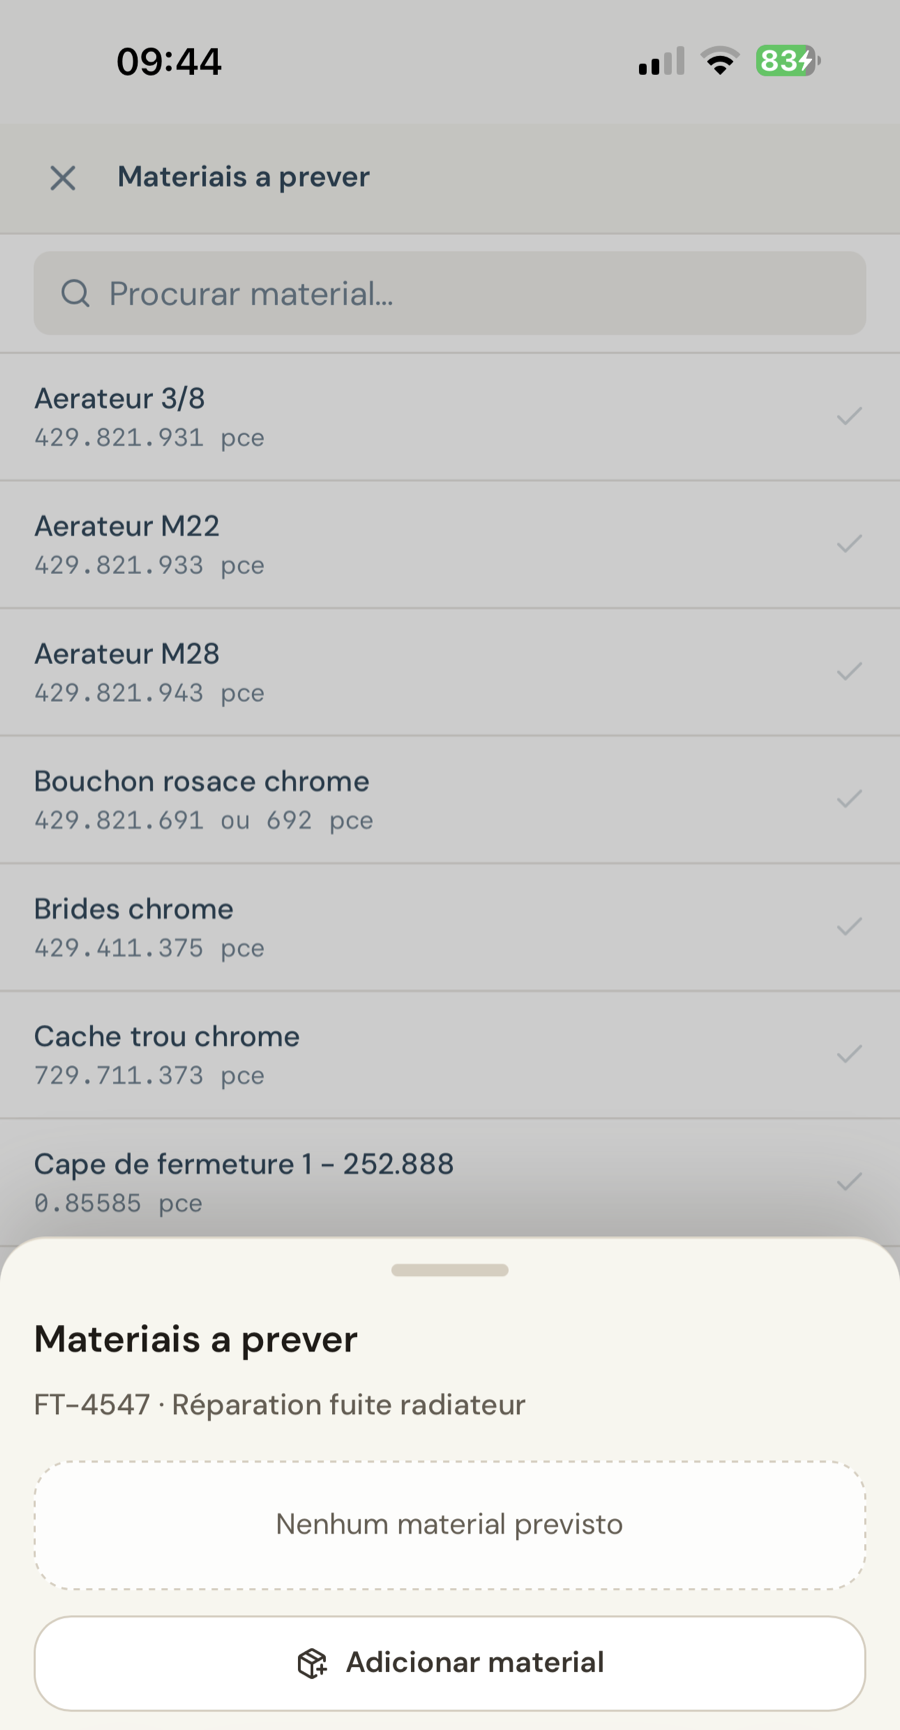
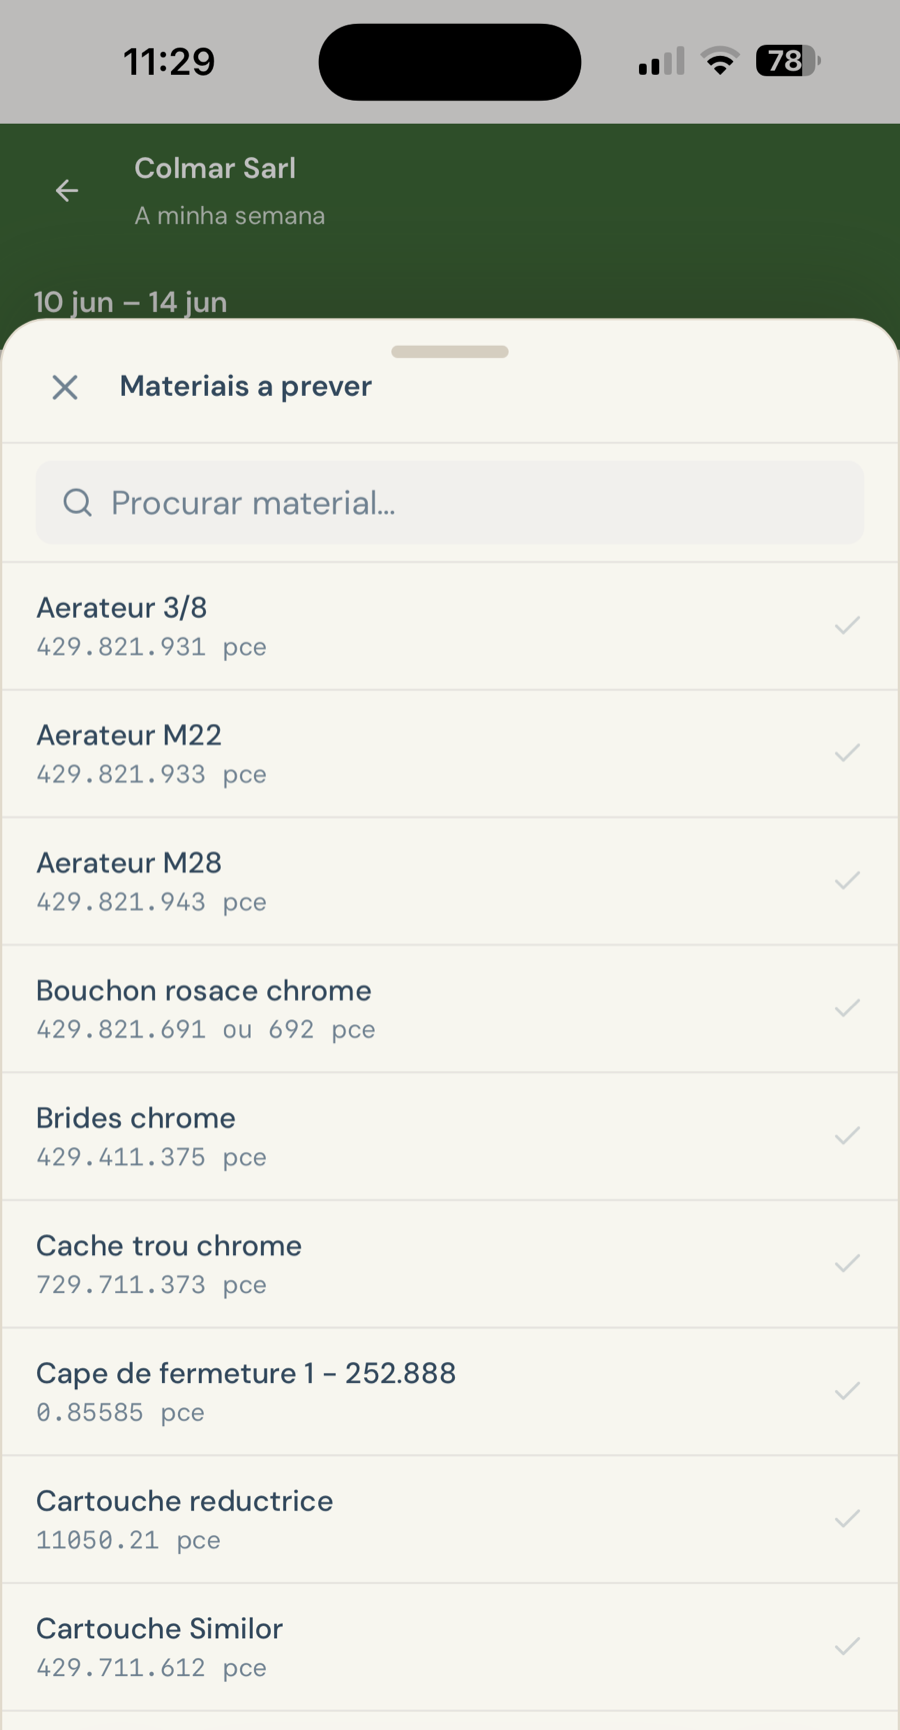
Update material screenshot in June release notes

diff --git a/support/notes-de-version/1-juin-2026/index.html b/support/notes-de-version/1-juin-2026/index.html
@@ -475,7 +475,7 @@
             <figure class="screenshot is-phone">
               <div class="screenshot-frame">
                 <img
-                  src="/release-notes-screenshots-2026-06-01/app-technicien-materiel.png"
+                  src="/release-notes-screenshots-2026-06-01/app-technicien-materiel.png?v=20260601-2"
                   alt="Application technicien BonGest avec le matériel à prévoir"
                   loading="lazy"
                   decoding="async"